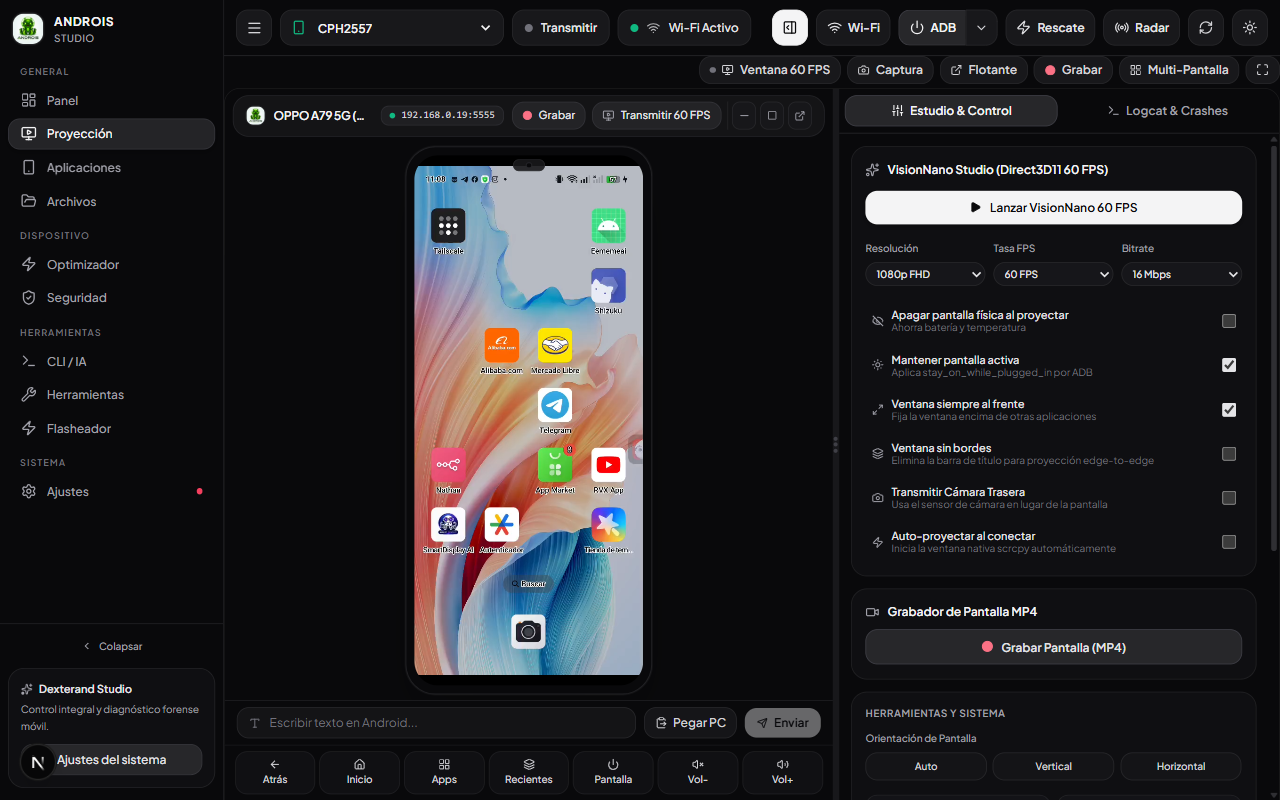
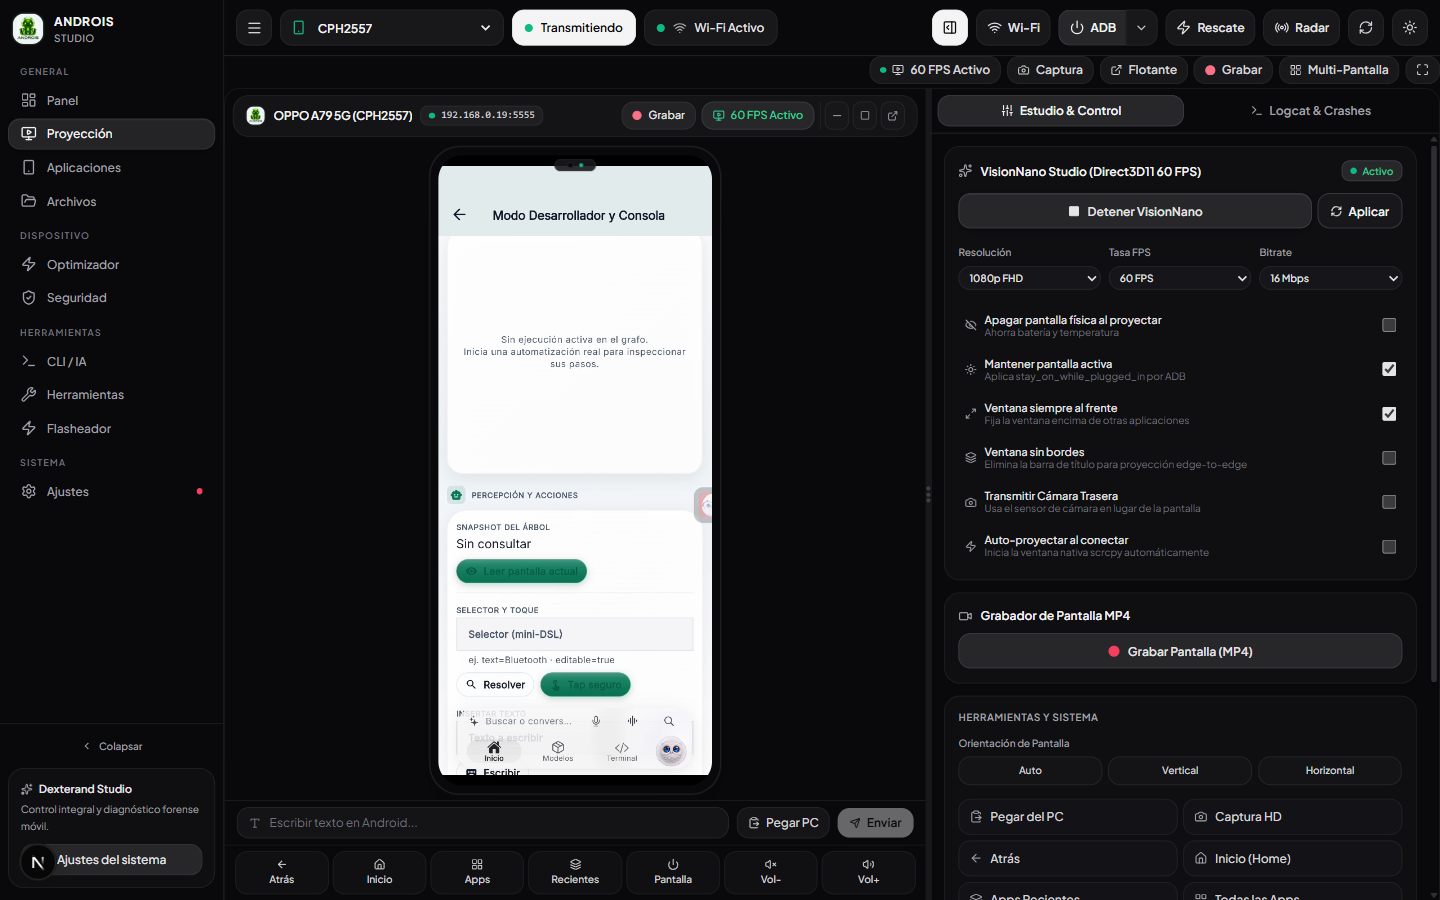
ui(theme): audit Light Mode contrast and upgrade Dark Mode to 2026 Obsidian-Graphite

diff --git a/androproject-gui/src/features/dashboard/TelemetryModal.tsx b/androproject-gui/src/features/dashboard/TelemetryModal.tsx
@@ -163,12 +163,12 @@ export const TelemetryModal: React.FC<TelemetryModalProps> = ({
           </div>
 
           <div className={`grid grid-cols-3 sm:grid-cols-6 gap-1.5 p-2 rounded border text-[11px] font-mono ${dark ? 'bg-zinc-900/60 border-zinc-800 text-zinc-200' : 'bg-slate-50 border-slate-200 text-slate-800'}`}>
-            <div><span className="block text-[10px] uppercase text-zinc-400">Modelo</span><strong className="truncate block">{(device as { marketName?: string } | null)?.marketName || device?.model || '--'}</strong></div>
-            <div><span className="block text-[10px] uppercase text-zinc-400">Serial</span><strong className="truncate block">{device?.serial || '--'}</strong></div>
-            <div><span className="block text-[10px] uppercase text-zinc-400">Android</span><strong className="truncate block">{device?.androidVersion || '--'} ({device?.connectionType || 'USB'})</strong></div>
-            <div><span className="block text-[10px] uppercase text-zinc-400">Pantalla</span><strong className="truncate block">{device?.resolution || '--'}</strong></div>
-            <div><span className="block text-[10px] uppercase text-zinc-400">Uptime</span><strong className="truncate block">{device?.uptimeHours || '--'}</strong></div>
-            <div><span className="block text-[10px] uppercase text-zinc-400">Batería</span><strong className="truncate block">{device?.battery !== undefined ? `${device.battery}% ${device.isCharging ? '⚡' : ''}` : '--'}</strong></div>
+            <div><span className={`block text-[10px] uppercase ${dark ? 'text-zinc-400' : 'text-slate-600'}`}>Modelo</span><strong className="truncate block">{(device as { marketName?: string } | null)?.marketName || device?.model || '--'}</strong></div>
+            <div><span className={`block text-[10px] uppercase ${dark ? 'text-zinc-400' : 'text-slate-600'}`}>Serial</span><strong className="truncate block">{device?.serial || '--'}</strong></div>
+            <div><span className={`block text-[10px] uppercase ${dark ? 'text-zinc-400' : 'text-slate-600'}`}>Android</span><strong className="truncate block">{device?.androidVersion || '--'} ({device?.connectionType || 'USB'})</strong></div>
+            <div><span className={`block text-[10px] uppercase ${dark ? 'text-zinc-400' : 'text-slate-600'}`}>Pantalla</span><strong className="truncate block">{device?.resolution || '--'}</strong></div>
+            <div><span className={`block text-[10px] uppercase ${dark ? 'text-zinc-400' : 'text-slate-600'}`}>Uptime</span><strong className="truncate block">{device?.uptimeHours || '--'}</strong></div>
+            <div><span className={`block text-[10px] uppercase ${dark ? 'text-zinc-400' : 'text-slate-600'}`}>Batería</span><strong className="truncate block">{device?.battery !== undefined ? `${device.battery}% ${device.isCharging ? '⚡' : ''}` : '--'}</strong></div>
           </div>
         </div>
 

diff --git a/androproject-gui/src/styles/tokens.css b/androproject-gui/src/styles/tokens.css
@@ -17,25 +17,25 @@
   --btn-primary-text: #09090b;
   --btn-primary-hov:  #ffffff;
 
-  /* ── Surfaces (Dark Mode — Obsidian Neutral) ── */
-  --surface-root:     #09090b;
-  --surface-base:     #101013;
-  --surface-card:     #141418;
-  --surface-raised:   #18181d;
-  --surface-overlay:  #232329;
+  /* ── Surfaces (Dark Mode 2026 — Obsidian Graphite Depth) ── */
+  --surface-root:     #07080b;
+  --surface-base:     #0c0e13;
+  --surface-card:     #11131a;
+  --surface-raised:   #161922;
+  --surface-overlay:  #1f2430;
   --surface-track:    rgba(255, 255, 255, 0.09);
 
-  /* ── Borders (Dark Mode) ── */
-  --border-subtle:    rgba(255, 255, 255, 0.08);
-  --border-default:   rgba(255, 255, 255, 0.13);
-  --border-strong:    rgba(255, 255, 255, 0.22);
+  /* ── Borders (Dark Mode 2026 Hairline) ── */
+  --border-subtle:    rgba(255, 255, 255, 0.07);
+  --border-default:   rgba(255, 255, 255, 0.12);
+  --border-strong:    rgba(255, 255, 255, 0.20);
   --border-accent:    rgba(255, 255, 255, 0.34);
 
-  /* ── Text (Dark Mode — WCAG AA/AAA) ── */
-  --text-primary:     #f4f4f5;
-  --text-secondary:   #b4b4bd;
-  --text-tertiary:    #8c8c97;
-  --text-disabled:    #5c5c66;
+  /* ── Text (Dark Mode 2026 — WCAG AA/AAA) ── */
+  --text-primary:     #f8fafc;
+  --text-secondary:   #b8c0cc;
+  --text-tertiary:    #8b95a5;
+  --text-disabled:    #5c6472;
   --text-accent:      #ffffff;
 
   /* ── Semantic Statuses (Muted Studio Tones) ── */
@@ -45,12 +45,12 @@
   --info:             #3b82f6;
   --violet:           #71717a;
 
-  /* ── Subtle Elevation Shadows ── */
-  --shadow-xs:        0 1px 2px rgba(0, 0, 0, 0.35);
-  --shadow-sm:        0 2px 6px rgba(0, 0, 0, 0.30);
-  --shadow-md:        0 4px 12px rgba(0, 0, 0, 0.35);
-  --shadow-lg:        0 8px 24px rgba(0, 0, 0, 0.40);
-  --shadow-xl:        0 16px 36px rgba(0, 0, 0, 0.45);
+  /* ── Subtle Elevation Shadows (Tactile 2026 Top Highlight) ── */
+  --shadow-xs:        inset 0 1px 0 rgba(255, 255, 255, 0.04), 0 1px 2px rgba(0, 0, 0, 0.40);
+  --shadow-sm:        inset 0 1px 0 rgba(255, 255, 255, 0.05), 0 2px 8px rgba(0, 0, 0, 0.36);
+  --shadow-md:        inset 0 1px 0 rgba(255, 255, 255, 0.06), 0 6px 16px rgba(0, 0, 0, 0.42);
+  --shadow-lg:        inset 0 1px 0 rgba(255, 255, 255, 0.06), 0 12px 28px rgba(0, 0, 0, 0.48);
+  --shadow-xl:        inset 0 1px 0 rgba(255, 255, 255, 0.07), 0 20px 44px rgba(0, 0, 0, 0.56);
 
   --glow-brand-sm:    none;
   --glow-brand-md:    none;

diff --git a/androproject-gui/src/app/error.tsx b/androproject-gui/src/app/error.tsx
@@ -15,23 +15,23 @@ export default function Error({
   }, [error]);
 
   return (
-    <div className="min-h-screen bg-zinc-950 text-zinc-100 flex items-center justify-center p-8 font-sans">
-      <div className="max-w-md w-full bg-zinc-900 border border-zinc-800 rounded-2xl p-8 text-center shadow-2xl">
-        <div className="w-14 h-14 rounded-2xl bg-zinc-800 border border-zinc-700 flex items-center justify-center mx-auto mb-5">
-          <AlertTriangle size={28} className="text-red-400" />
+    <div className="min-h-screen bg-[var(--surface-root)] text-text-primary flex items-center justify-center p-8 font-sans">
+      <div className="max-w-md w-full bg-surface-card border border-border-default rounded-2xl p-8 text-center shadow-2xl">
+        <div className="w-14 h-14 rounded-2xl bg-surface-raised border border-border-default flex items-center justify-center mx-auto mb-5">
+          <AlertTriangle size={28} className="text-red-500" />
         </div>
-        <h1 className="text-lg font-bold tracking-tight text-zinc-100 mb-1.5">Error del Sistema</h1>
-        <p className="text-xs text-zinc-400 mb-2">AndroProject encontró un error inesperado.</p>
+        <h1 className="text-lg font-bold tracking-tight text-text-primary mb-1.5">Error del Sistema</h1>
+        <p className="text-xs text-text-secondary mb-2">AndroProject encontró un error inesperado.</p>
         {error.digest && (
-          <p className="text-xs text-zinc-500 font-mono mb-6">ID: {error.digest}</p>
+          <p className="text-xs text-text-tertiary font-mono mb-6">ID: {error.digest}</p>
         )}
         <button
           onClick={reset}
-          className="px-5 py-2.5 bg-zinc-100 hover:bg-zinc-200 text-zinc-900 rounded-xl font-semibold text-xs flex items-center gap-2 mx-auto transition-all active:scale-[0.98] shadow-sm"
+          className="px-5 py-2.5 bg-[var(--btn-primary-bg)] hover:bg-[var(--btn-primary-hov)] text-[var(--btn-primary-text)] rounded-xl font-semibold text-xs flex items-center gap-2 mx-auto transition-all active:scale-[0.98] shadow-sm"
         >
           <RefreshCw size={15} /> Reintentar
         </button>
-        <p className="text-[10px] text-zinc-500 mt-6">
+        <p className="text-[10px] text-text-tertiary mt-6">
           Si el error persiste, cierra y reabre la aplicación.
         </p>
       </div>

diff --git a/androproject-gui/src/features/tools/DriverManagerPanel.tsx b/androproject-gui/src/features/tools/DriverManagerPanel.tsx
@@ -141,7 +141,7 @@ export const DriverManagerPanel: React.FC<DriverManagerPanelProps> = ({ onLog })
                 <div className="font-bold truncate">{u.description || 'Dispositivo USB'} · <span className={mutedCls}>{u.driverInf || 'sin .inf'}</span> · <span className={mutedCls}>{u.status || 'OK'}</span></div>
                 <div className={`${mutedCls} truncate mt-0.5`}>{u.instanceId} {u.hardwareId ? `· ${u.hardwareId}` : ''}</div>
               </div>
-              <button type="button" onClick={() => handleCopyId(u.instanceId)} className="p-1 rounded hover:bg-zinc-800/40 shrink-0" title="Copiar Instance ID">
+              <button type="button" onClick={() => handleCopyId(u.instanceId)} className={`p-1 rounded shrink-0 ${dark ? 'hover:bg-zinc-800/60 text-zinc-300' : 'hover:bg-slate-200 text-slate-700'}`} title="Copiar Instance ID">
                 {copiedId === u.instanceId ? <Check size={12} /> : <Copy size={12} />}
               </button>
             </div>

diff --git a/androproject-gui/src/app/globals.css b/androproject-gui/src/app/globals.css
@@ -58,6 +58,7 @@ button:disabled {
 .cosmic-rim {
   background: var(--surface-card);
   border: 1px solid var(--border-subtle);
+  box-shadow: var(--shadow-sm);
   color: var(--text-primary);
 }
 
